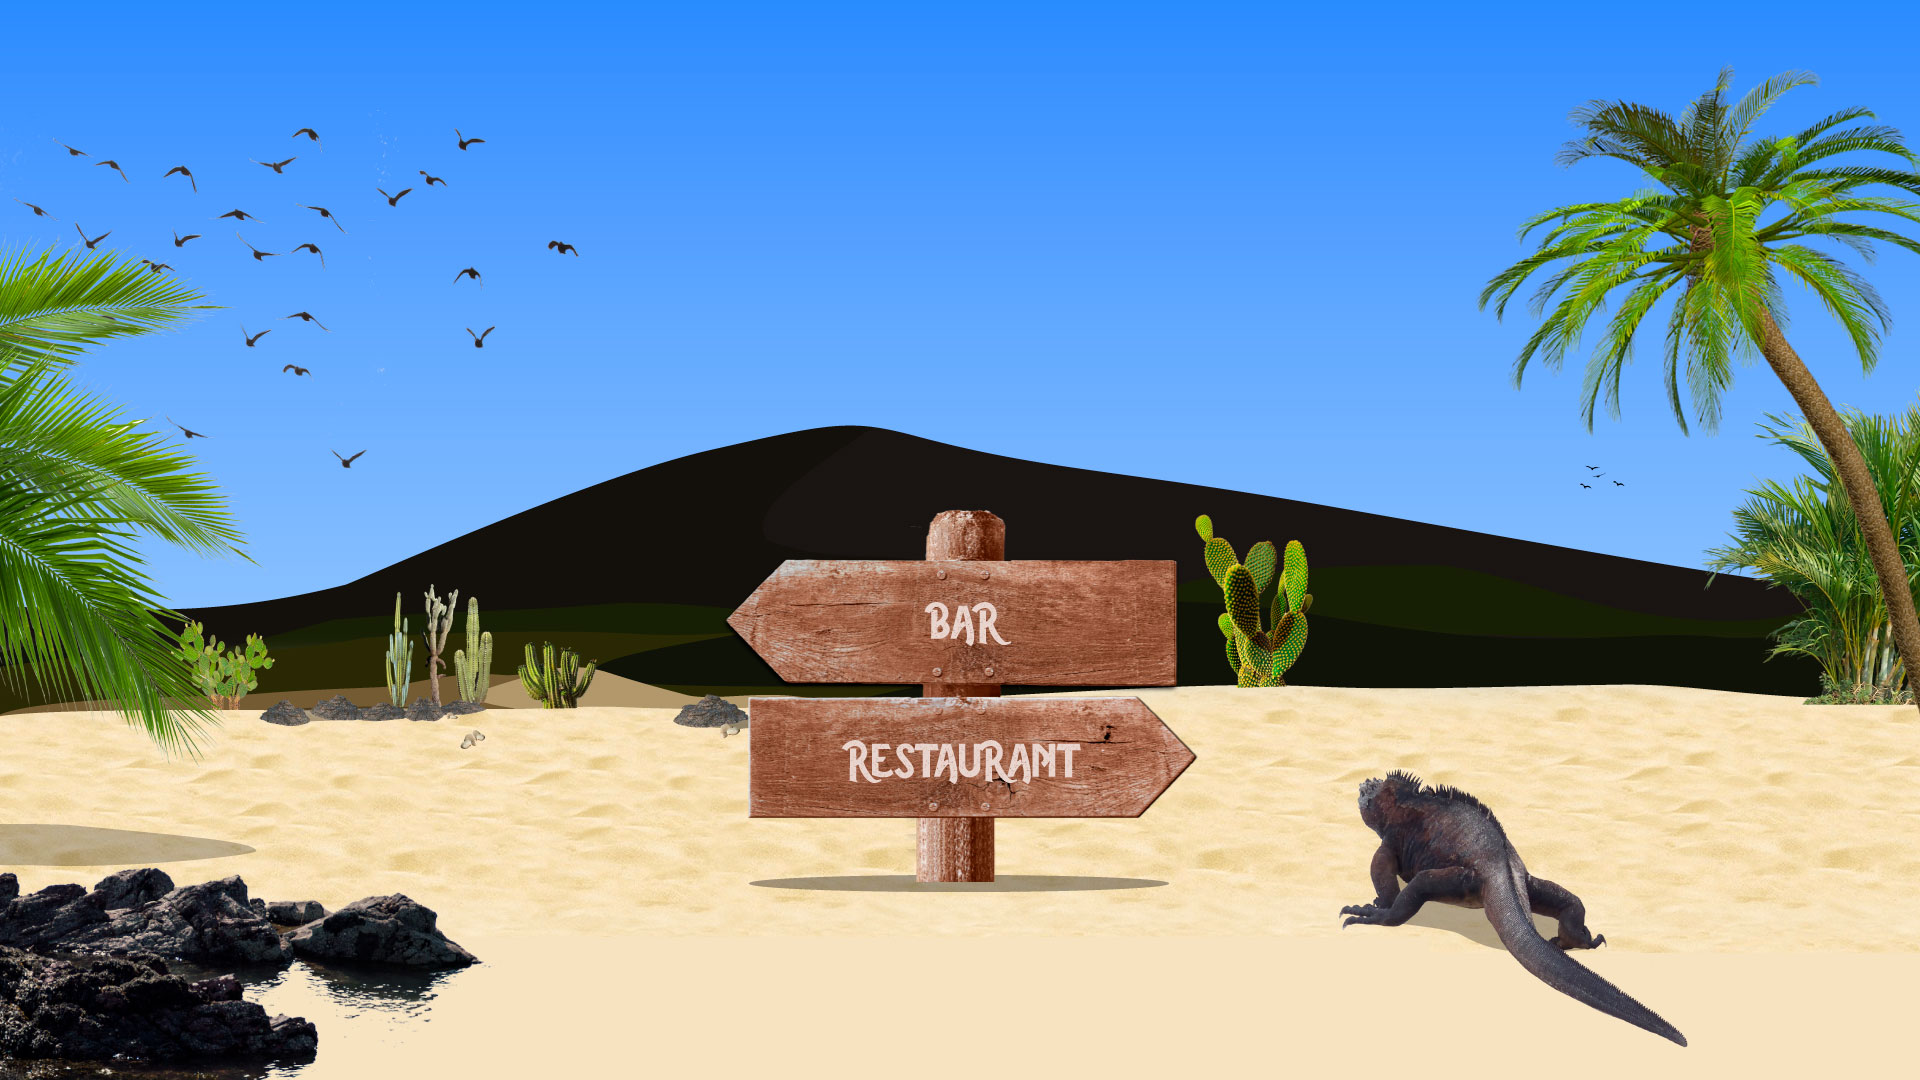
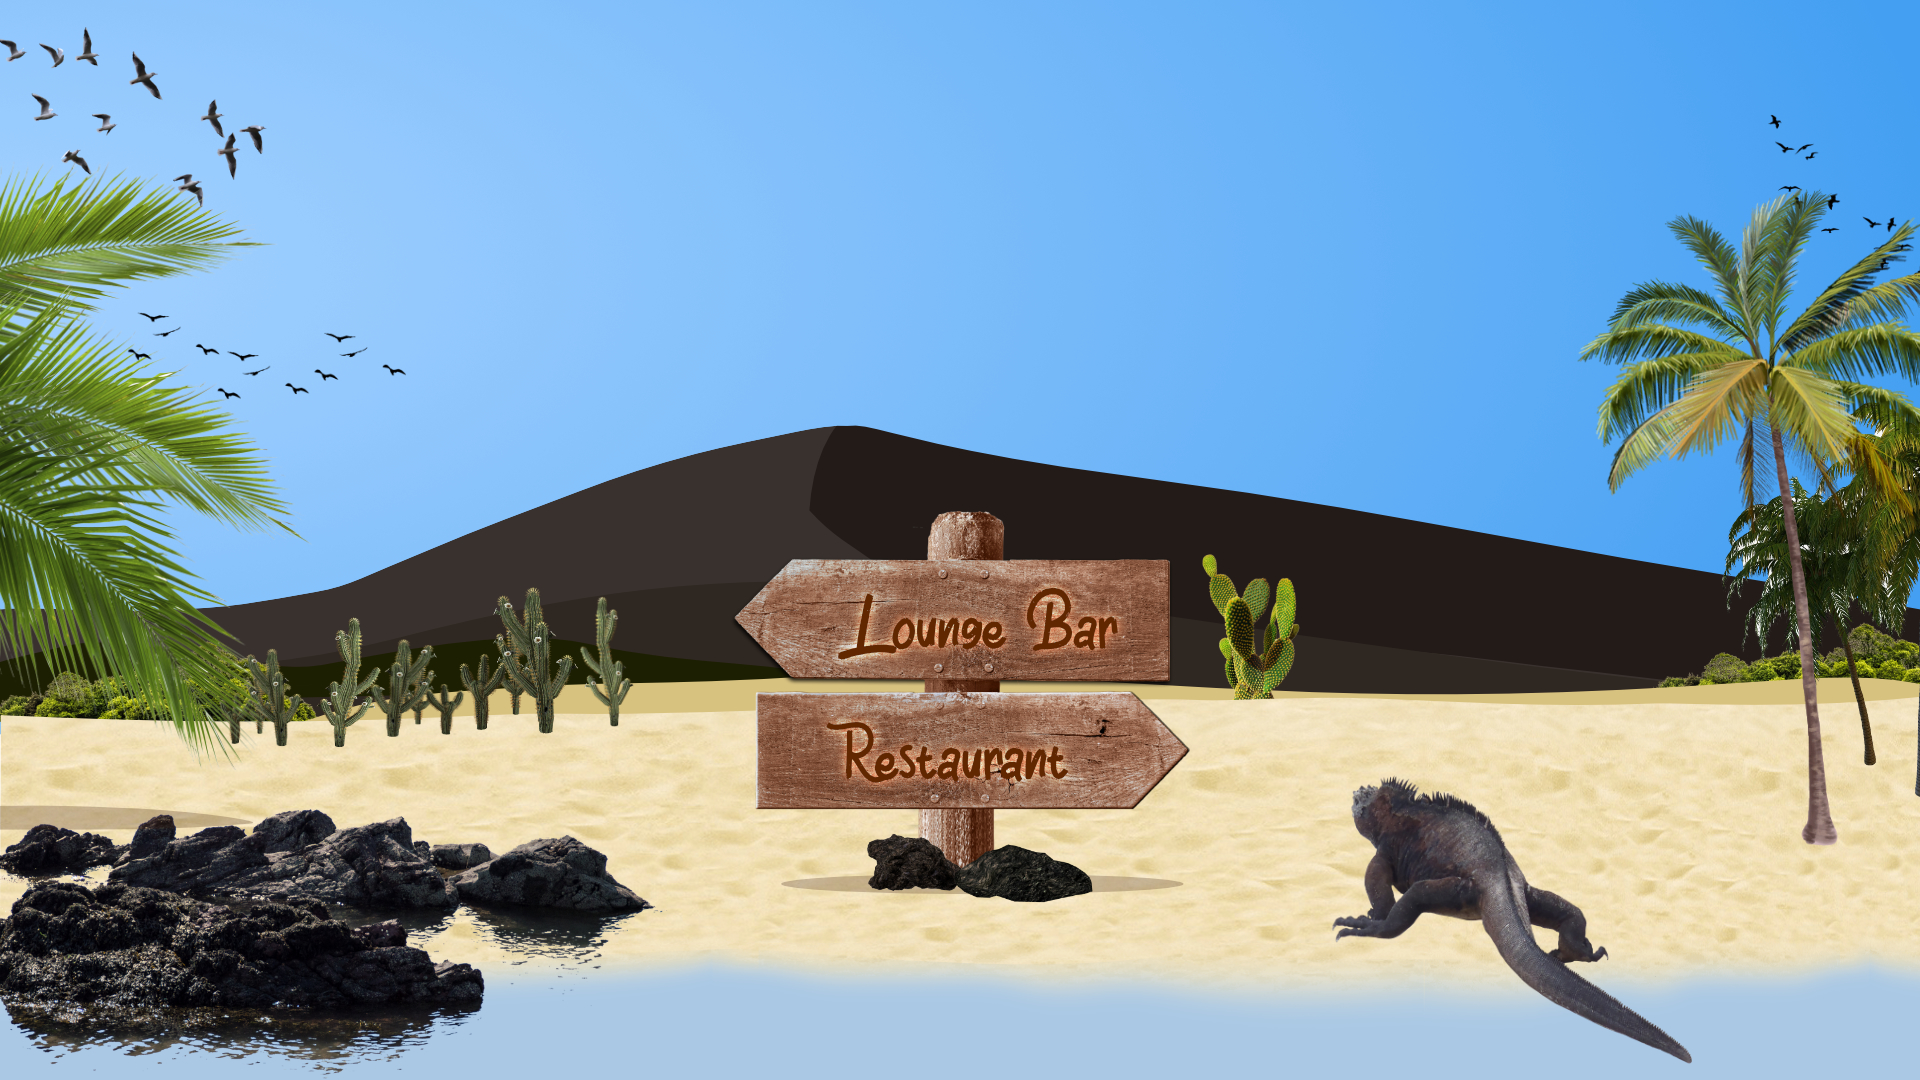
update files

diff --git a/css/custom.css b/css/custom.css
@@ -9,12 +9,12 @@
 
 body{
 	font-family: Arial, Calibri;
-	color: #FFF;
-	background-color: #382A23;
+	color: #212121;
+	background-color: #433B33;
 }
 
 .bg{
-	background-color: #433B33;
+	background-color: #AAC8E4;
 }
 
 .container{
@@ -26,8 +26,8 @@ body{
 	width: 100%;
 	margin: 0 auto;
 	border: none;
-	background: #FFF url(../images/top-bg.jpg) top center;
-	color: #000;
+	background: #212121 url(../images/top-bg.jpg) top center;
+	color: #212121;
 }
 
 .content-row{
@@ -145,11 +145,11 @@ body{
 	height: 120px;
 	line-height: 120px;
 	width: 100%;
-	background-color: #382A23;
+	background-color: #AAC8E4;
 }
 
 .bg-links a{
-	color: #FFF;
+	color: #010101;
 }
 
 .social-links{
@@ -233,14 +233,14 @@ body{
 }
 
 .footbar{
-	border-top: 1px solid #FFF;
+	border-top: 1px solid #212121;
 	width: 90%;
 	margin: 0 auto;
 	line-height: 40px;
 }
 
 .footer{
-	border-top: 2px solid #433B33;
+	border-top: 2px solid #212121;
 	width: 100%;
 	margin: 0;
 	background: #44382F url(../images/foot-bg.jpg) repeat-x top left;
@@ -253,7 +253,7 @@ body{
 	height: 100%;
 	top: 0px;
 	left: 0px;
-	background-color: #433B33;
+	background-color: #AAC8E4;
 }
 
 #index-intro .logo{

diff --git a/index.html b/index.html
@@ -6,10 +6,10 @@
 	<link rel="stylesheet" type="text/css" href="css/base.css">
 	<link rel="stylesheet" type="text/css" href="css/custom.css">
 </head>
-<body>
+<body class="bg">
 	<div class="container enter-bg">
 		<div class="bg-cover">
-			<img src="images/index/background.jpg">
+			<img width="1080" src="images/index/background.jpg">
 			<a class="index-button link-bar" href="/bar">Lounge Bar</a>
 			<a class="index-button link-res" href="/restaurant">Restaurante</a>
 		</div>

diff --git a/_layouts/default.html b/_layouts/default.html
@@ -13,7 +13,7 @@
 	<script type="text/javascript" src="/js/gallery.js"></script>
 	<script type="text/javascript" src="/js/owl.carousel.min.js"></script>
 </head>
-<body class="bg">
+<body>
 	<div class="content">
 		<div class="container">
 			<div class="top-banner">
